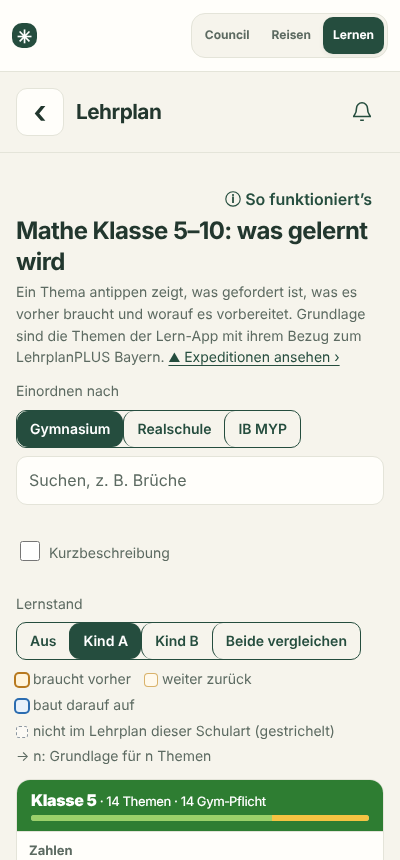
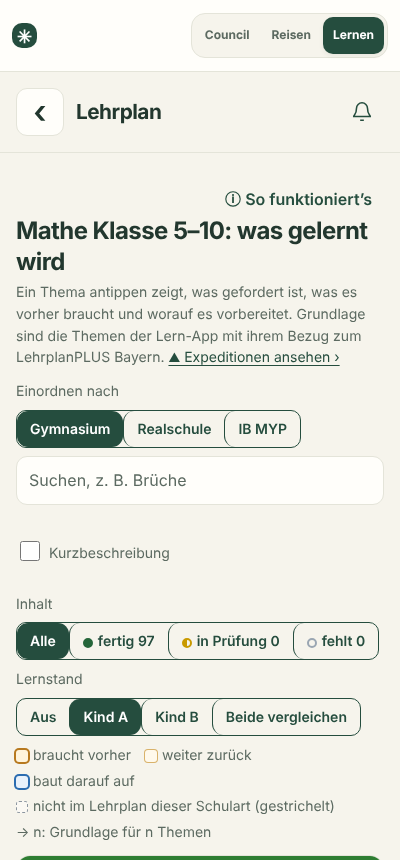
0.84.0 b: Matrix an LM-S 2 (Raster/Detail getrennt, Tripel, gebiet_id, etappen_anzahl), Filter Inhalt (was fehlt noch?), Info-Texte zum Lehrplan
Claude-Session: https://claude.ai/code/session_01RWRKSAaEXiAwwpv8KARTkF

Changed region(s): [[0.03, 0.6953, 0.96, 1.0]]

diff --git a/lernen.js b/lernen.js
@@ -3819,7 +3819,7 @@ function lernEtappeStandText(x) {
 const LERN_INFO_FRAGEN = [
   ['Worauf baut die App auf?', [
     'Die App deckt Mathematik für drei Schularten ab: Gymnasium Bayern (LehrplanPLUS, Klassen 5–10), Realschule Bayern (LehrplanPLUS, Klassen 5–10) und das IB Middle Years Programme (MYP-Jahr 1–5; entspricht etwa Klasse 6–10, also MYP-Jahr = Klasse − 5; unter Klasse 6: noch kein MYP-Jahr).',
-    'Grundlage ist eine Liste aller Mathe-Flüge (über 90). Für jeden Flug ist hinterlegt, in welcher Klasse er in welcher Schulart dran ist, z. B. „Ganze Zahlen: Gym 5 · RS 5 · IB 2“. Die Lehrplan-Übersicht zeigt alle Flüge.',
+    'Grundlage ist eine Liste aller Mathe-Flüge (über 90). Für jeden Flug ist hinterlegt, in welcher Klasse er in welcher Schulart dran ist, z. B. „Ganze Zahlen: Gym 5 · RS 5 · IB 2“. Der Lehrplan (Nachschlagen auf der Startseite) zeigt alle Flüge auf einer Seite: Klasse 5 bis 10 und alle Themengebiete.',
     'Für jede Schulart ist die Reihenfolge des Lehrplans und der Lernbereich hinterlegt (Gymnasium und Realschule nach LehrplanPLUS Bayern, IB nach dem MYP-Rahmenplan). Beim IB sind manche Zuordnungen als „Annahme“ gekennzeichnet, weil der Rahmenplan dort nicht genau festlegt, in welchem Jahr ein Flug dran ist. Den Lehrplan-Bezug eines Flugs sieht man, wenn man ihn im Lehrplan aufklappt.',
     'Ein Kind lernt jeden Flug nur einmal; er zählt für alle Schularten.']],
   ['Wie ist die Lernreise aufgebaut?', [
@@ -3838,7 +3838,7 @@ const LERN_INFO_FRAGEN = [
     ['Abschluss einer Etappe:', ' Nach der Landung (und der Knobel-Bordkarte) zeigt die App eine von drei Fassungen – jede mit eigenem Bild und eigener Farbe: Direktflug (alle Bordkarten im ersten Versuch richtig, ohne Tipp, genau so viele wie nötig), Saubere Landung (höchstens 2 endgültige Fehler, Stufe nie leichter geworden, höchstens 4 Bordkarten mehr als nötig; nach „wieder offen“ heißt sie „Wieder gelandet“) oder Sturmflug gemeistert (alles darüber; ohne Fehlerzahl, die Knobel-Bordkarte kommt dann nicht von selbst, nur als Textlink). Dazu ein Abzeichen – ⚡ Direkt, ✓ Sauber oder ⚡ Ausdauer –, das im Reisepass gezählt wird, der Satz „Du kannst jetzt …“ und genau ein Knopf zum nächsten Schritt (nächste Etappe, Flug-Test oder Abflugtafel); zurück in die Übungen derselben Etappe führt von dort kein Weg. Nach dem bestandenen Flug-Test: „Flug geschafft“ mit den Sternen des Flugs und der Liste „Das kannst du jetzt“, danach eine Bordkarte zum nächsten Flug im Plan („Boarding“ öffnet seine erste Erklärung). Mit dem letzten Flug eines Orts kommt dazwischen der Reisepass-Stempel. Landungen vor dieser Version haben kein Abzeichen.'],
     ['Wieder offen:', ' Zwei Fehler in einer fälligen Wiederholung öffnen eine gelandete Etappe wieder – überall: auf der Abflugtafel, in der Etappe, bei den Eltern und für den Flug-Test. Eigene Lösungen und Arten bleiben; es fehlen nur 3 eigene Lösungen in Folge. Ein früher bestandener Test bleibt getrennt als Beleg stehen. Fehler in Mischkarten oder Expeditionen öffnen nie, sie machen die Etappe nur am nächsten Lerntag fällig.'],
     ['Etappe sicher:', ' gelandet, die Wiederholung nach 14 Lerntagen bestanden und – beides nach der letzten Landung – einmal in einer Mischkarte richtig erkannt und im Nachtest des Flugs die Bordkarte dieser Etappe richtig. Ist nur der Nachtest des Flugs bestanden, steht bei den Eltern „Flug-Nachtest bestanden“.'],
-    ['Expeditionen:', ' größere Bordkarten aus 3–5 Teilen (a, b, c …), die Stoff aus mehreren Etappen verbinden – wie in einer Schulaufgabe mit Teil a, b, c. Das Kind bekommt eine Expedition auf der Abflugtafel angeboten, sobald alle ihre Etappen bei ihm gelandet sind; freiwillig, sie zählt nicht für „gelandet“. Jeder Teil hat zwei Versuche, danach steht die Lösung da und es geht mit dem nächsten Teil weiter (jeder Teil nennt seine Zahlen selbst). Richtig im ersten Versuch ist ein Beleg für die Etappe; falsch macht sie am nächsten Lerntag zur Wiederholung fällig – ohne Abzüge. Eine begonnene Expedition kann das Kind auch dann zu Ende führen, wenn eine ihrer Etappen inzwischen wieder offen ist. Gebucht wird auf die Version der Etappe, die beim Kind gelandet ist. Geschafft: Expeditions-Stempel und 50 Sterne. Alle Expeditionen mit Lösungen: Lehrplan-Übersicht → „Expeditionen ansehen“.'],
+    ['Expeditionen:', ' größere Bordkarten aus 3–5 Teilen (a, b, c …), die Stoff aus mehreren Etappen verbinden – wie in einer Schulaufgabe mit Teil a, b, c. Das Kind bekommt eine Expedition auf der Abflugtafel angeboten, sobald alle ihre Etappen bei ihm gelandet sind; freiwillig, sie zählt nicht für „gelandet“. Jeder Teil hat zwei Versuche, danach steht die Lösung da und es geht mit dem nächsten Teil weiter (jeder Teil nennt seine Zahlen selbst). Richtig im ersten Versuch ist ein Beleg für die Etappe; falsch macht sie am nächsten Lerntag zur Wiederholung fällig – ohne Abzüge. Eine begonnene Expedition kann das Kind auch dann zu Ende führen, wenn eine ihrer Etappen inzwischen wieder offen ist. Gebucht wird auf die Version der Etappe, die beim Kind gelandet ist. Geschafft: Expeditions-Stempel und 50 Sterne. Alle Expeditionen mit Lösungen: Lehrplan → „Expeditionen ansehen“.'],
     ['Mischkarten:', ' Sind im Flug mindestens 3 Etappen gelandet, ist beim Üben jede 4. Bordkarte (bis Klasse 6 jede 6.) eine aus einer anderen Etappe, die schon gelandet ist – meist aus demselben Flug oder Kontinent, manchmal aus einem älteren Flug. Sie ist gekennzeichnet („Aus deiner Reise – erkennst du, was gefragt ist?“), nach der Lösung steht, aus welcher Etappe sie kam. Das Kind soll selbst erkennen, welches Verfahren passt. Sie zählt nicht für die gerade geübte Etappe; richtig ist ein Beleg für „sicher“, falsch macht die Herkunfts-Etappe am nächsten Lerntag zur Wiederholung fällig – ohne Abzüge. Der Server prüft jede Mischkarte (Etappe gelandet, Stufe 2–3, nicht die gerade geübte); sonst zählt sie wie eine normale Bordkarte.'],
     ['Wiederholung:', ' Ist eine Etappe gelandet, kommt sie nach 1, 3, 7, 14 und 30 Lerntagen wieder, jeweils mit einer Bordkarte. Ein Lerntag ist ein Tag, an dem das Kind Mathe übt; Reisetage ohne Mathe zählen nicht. Vor einem Flug kommen höchstens 6 Wiederholungen, weitere werden nur angeboten. Ein Fehler: Die Etappe kommt am nächsten Lerntag wieder. Zwei Fehler hintereinander: Das Kind übt sie noch einmal – eigene Lösungen bleiben, es braucht wieder 3 richtige in Folge.'],
     ['Flug-Test:', ' Ist die letzte Pflicht-Etappe gelandet, führt der Landebildschirm nur noch zum Test („Weiter: Flug-Test“): eine Bordkarte je Etappe, ohne Tipps. Im Ergebnis ist jede Antwort deutlich als RICHTIG oder FALSCH markiert. Bei Fehlern zwei Wege: „Erst üben: ‹Etappe›“ oder „Gleich verbessern“. Alles richtig verbessert → Flug geschafft.'],
@@ -3847,7 +3847,7 @@ const LERN_INFO_FRAGEN = [
     'Keine Zeitvorgaben, keine Uhr, keine Ranglisten.']],
   ['Wie entstehen die Inhalte, und wer prüft sie?', [
     'Erklärungen und Bordkarten erstellt eine KI (Claude) nach festen Regeln: Bezug zum Lehrplan, Alltagseinstieg, einfache Sprache, jede Lösung vom Programm berechnet und geprüft.',
-    'Ein neuer Flug ist zuerst „in Prüfung“: Nur das Testkind sieht ihn. Nach der Freigabe ist er „fertig“ und für alle Kinder da. Die Lehrplan-Übersicht (Nachschlagen auf der Startseite) zeigt je Schulart und Klasse alle Flüge in der Reihenfolge des Lehrplans, gegliedert nach Lernbereich (z. B. „M8 2 Lineare Funktionen“): andere Schularten, Inhalt (● fertig, ◐ in Prüfung, ○ fehlt) und die Stufe je Kind (◉ ↻ ▶ ○ +). Eine Zeile antippen öffnet „Inhalte ansehen“.',
+    'Ein neuer Flug ist zuerst „in Prüfung“: Nur das Testkind sieht ihn. Nach der Freigabe ist er „fertig“ und für alle Kinder da. Der Lehrplan (Nachschlagen auf der Startseite) zeigt alle Flüge als Übersicht: Zeilen Klasse 5–10, Spalten die Themengebiete, eingeordnet nach Gymnasium, Realschule oder IB, in der Reihenfolge des Lehrplans. Der Filter „Inhalt“ zeigt, was fertig ist (●), was in Prüfung ist (◐) und was noch fehlt (○). Ein Thema antippen: was gefordert ist, was es vorher braucht, worauf es aufbaut, Lernbereich und „Inhalte ansehen“. Mit „Lernstand“ steht bei jedem Thema die Stufe eines Kindes (◉ ↻ ▶ ○ +) – ist ein Kind gewählt, lässt sich der Plan dort direkt ändern.',
     'Jeder Inhalt ist mit allen Lösungen einsehbar („Inhalte ansehen“). In einem fertigen Flug sind Bordkarten, die ersetzt wurden oder überzählig sind, „aussortiert“: Sie werden nie ausgegeben, zählen nicht mit und stehen zugeklappt am Ende der Etappe.']],
   ['Was kann ich selbst ändern?', [
     ['Plan je Kind', ' (Reiter „Plan“): oben „Gymnasium Kl. 8 · 3 ▶ · 9 ○ · 6 ↻ · 14 ◉“. Jeder Flug hat eine von vier Stufen, überall mit denselben Zeichen: ◉ Kann er komplett (keine Übung, keine Wiederholung), ↻ In Wiederholung („Wdh 2 von 5 · nächste in 3 Lerntagen“), ▶ Gerade dran, ○ Kommt noch; dazu + Nicht im Plan. Links „Unser Lehrplan“ nach Stufen: ▶ und ○ in der Reihenfolge der Lernreise (am Griff ⠿ ziehen oder ↑ ↓), darunter ↻ und zugeklappt ◉ mit Datum. Einen Ort antippen zeigt seine Flüge mit vier Knöpfen: „Lernen“, „Kann er – aber wiederholen“ (keine Übung, nur die Wiederholungen; zwei Fehler hintereinander → wieder offen), „Kann er komplett“ und „Aus dem Plan nehmen“; bei ◉ zusätzlich „Wieder in die Wiederholung“. Für so gesetzte Flüge gibt es keinen Flug-Test und keine Nachtests. Ist die Wiederholung nach 14 Lerntagen bestanden (und eine Mischkarte richtig, falls eine kam), steht der Flug auf ◉. „Wieder in die Wiederholung“ holt einen ◉-Flug zurück; die Wiederholungen beginnen dann wieder nach 1 Lerntag. „Auswählen“: je Ort ein Häkchen (alle seine Flüge), „▸ einzeln“ für einzelne Flüge, je Abschnitt „alle auswählen“; oben dann die Knöpfe für alle ausgewählten auf einmal (z. B. 6 Flüge aus Klasse 7 auf „wiederholen“). Rechts der Lehrplan „Nach Themengebiet“ oder „Nach Klasse“: eine Zeile je Flug in der Reihenfolge des Lehrplans, mit Stufe und denselben Knöpfen; „+ In den Plan“ nimmt den Ort nur mit diesem Flug auf. Ein Flug einer höheren Klasse trägt den Hinweis „Gym 6 – höhere Klasse“. Jede Änderung wird sofort gespeichert; „↶ Rückgängig“ oben holt den Stand davor zurück. Hat jemand anderes den Plan inzwischen geändert, meldet die App das und überschreibt nichts – dann neu laden.'],
@@ -3855,7 +3855,7 @@ const LERN_INFO_FRAGEN = [
     ['⚙ Einstellen', ' (in der Zeile des Kindes auf der Startseite und oben auf seiner Seite): Hauptschulart und Klasse („bestimmt seine Klasse in Lernreise und Plan“), Stand messen gegen … (Stufe je Schulart, nur für „Wo steht es?“), Notizen und Verlauf, Neuer Plan aus Lehrplan-Vorlage (mit Rückfrage und „↶ Rückgängig“). Alles speichert sofort.'],
     'Inhalte werden nicht direkt geändert, sondern beauftragt (nächste Frage). Belohnungen und Zugänge verwalten nur Eltern.']],
   ['Wie beauftrage ich eine Änderung?', [
-    'An der betroffenen Stelle „✎ Ändern lassen“ tippen – derselbe Knopf an Erklärung, Etappe, Bordkarte, Flug und Flugplan; der Auftrag weiß dann, worum es geht. An einzelnen Bordkarten steht er in der Lernreise eines Kindes (am einfachsten beim Testkind). Für Flüge ohne Inhalt steht er in der Lehrplan-Übersicht, mit „Neuer Flug“ vorbelegt. Allgemeine Wünsche: „Meine Aufträge“ → „Neuer Auftrag“.',
+    'An der betroffenen Stelle „✎ Ändern lassen“ tippen – derselbe Knopf an Erklärung, Etappe, Bordkarte, Flug und Flugplan; der Auftrag weiß dann, worum es geht. An einzelnen Bordkarten steht er in der Lernreise eines Kindes (am einfachsten beim Testkind). Für Flüge ohne Inhalt steht er im Lehrplan, wenn man das Thema antippt, mit „Neuer Flug“ vorbelegt. Allgemeine Wünsche: „Meine Aufträge“ → „Neuer Auftrag“.',
     'Art wählen (Erklärung, Bordkarten, Fehler, Neuer Flug, Sonstiges), bei Bedarf eine Vorlage antippen (z. B. „Schwieriger“, „Lösung falsch“) und in einem Satz sagen, was anders sein soll.',
     'Die Entwicklung (Eltern mit KI) bearbeitet den Auftrag. Status: offen → in Arbeit → erledigt oder nicht umgesetzt, jeweils mit Antwort – alles unter „Meine Aufträge“.',
     'Neue Antworten stehen auf der Startseite unter „Neue Antworten auf eure Aufträge“.',
@@ -3888,7 +3888,7 @@ async function viewInfo(arg) {
     el('div', { class: 'lern-info-schritte' },
       schritt(1, 'Flugplan prüfen', 'Reiter „Plan“ auf der Seite des Kindes – das ist dein Arbeitsplatz. Links „Unser Lehrplan“ nach Stufen (▶ Gerade dran · ○ Kommt noch · ↻ In Wiederholung · ◉ Kann er komplett); Reihenfolge mit ⠿ ziehen oder ↑ ↓. Einen Ort antippen: je Flug die Knöpfe „Lernen“, „Kann er – aber wiederholen“, „Kann er komplett“, „Aus dem Plan nehmen“. Rechts (auf dem Handy darunter) der Lehrplan: „Nach Themengebiet“ (alle Flüge eines Themengebiets von leicht nach schwer, auch über der Klasse des Kindes) oder „Nach Klasse“ (die Flüge einer Klasse in der Reihenfolge des Lehrplans, gegliedert nach Lernbereich). „+“ oder Ziehen plant ein. Viele auf einmal: „Auswählen“. Jede Änderung wird sofort gespeichert.', jeKind('plan', 'Plan')),
       schritt(2, 'Lernstand lesen', 'Reiter „Stand“ auf der Seite des Kindes: die Lehrplan-Landkarte des Kindes (Kontinente × Klassen) in seiner Schulart, mit „Einstieg prüfen“ (Orientierung, keine Einstufung durch eine Schule). Reiter „Was wackelt“: je Etappe, was sitzt und was wackelt, mit den echten falschen Antworten. Alle Kinder nebeneinander: die Tabelle auf der Startseite.', jeKind('stand', 'Stand'), jeKind('wackelt', 'Was wackelt')),
-      schritt(3, 'Inhalte ansehen', 'In der Lehrplan-Übersicht unter „Inhalte ansehen“: jede Etappe mit ihrer Erklärung und alle Bordkarten mit Lösung.', el('a', { href: '#/lehrplan' }, 'Lehrplan-Übersicht ›')),
+      schritt(3, 'Inhalte ansehen', 'Im Lehrplan ein Thema antippen, dann „Inhalte ansehen“: jede Etappe mit ihrer Erklärung und alle Bordkarten mit Lösung.', el('a', { href: '#/lehrplan' }, 'Lehrplan ›')),
       schritt(4, 'Ändern lassen', 'Fehlt etwas oder stimmt etwas nicht? Mit „✎ Ändern lassen“ direkt an der Stelle beauftragen; Status und Antwort stehen unter „Meine Aufträge“.', el('a', { href: '#/lernauftraege' }, 'Meine Aufträge ›'))),
     el('h3', {}, 'Fragen'),
     ...LERN_INFO_FRAGEN.map(([frage, teile], i) => el('details', { class: 'card lern-info-frage' },
@@ -3964,18 +3964,24 @@ const LERN_MX_SA = { gym_by: ['Gymnasium', 'Gym'], rs_by: ['Realschule', 'RS'], 
 let lernMx = null; // Zustand über Seitenwechsel: { sa, kind, sel, q }
 let lernPlanZiel = null; // „Im Plan öffnen ›“: { kind, thema } – viewPlan klappt das Thema auf
 const lernMxSpeicher = (k, v) => { try { if (v === undefined) return localStorage.getItem(k); localStorage.setItem(k, v); } catch { /* ohne Speicher */ } return null; };
-// Laden: LM-S (schule_lehrplan_matrix: themen je Thema einmal, verbindungen, gebiete, kinder, lernstand[kind][thema]) und dazu die Lehrplan-Übersicht
-// (Inhaltsstand ● ◐ ○ und Aufträge je Flug, die die Matrix-Daten nicht haben). Kennt der Server LM-S noch nicht, trägt die Übersicht allein (ohne Verbindungen).
+// Laden: LM-S 2 – Raster über schule_lehrplan_matrix (themen knapp: thema_id, titel, gebiet_id, block_id, einheit_id | ohne_flug, etappen_anzahl, jahrgang …;
+// verbindungen als Tripel [thema_id, braucht_id, "h"|"e"]; gebiete[] mit Titel; lernstand[kind][thema]) und dazu die Lehrplan-Übersicht (Ort, Kurzbeschreibung,
+// Inhaltsstand ● ◐ ○ und Aufträge je Flug, die das Raster nicht hat). Das Detail (lernMxThema) kommt beim Antippen über schule_lehrplan_thema.
+// Kennt der Server LM-S noch nicht, trägt die Übersicht allein (ohne Verbindungen).
 async function lernMxLaden(mitTest = false) {
   const [m, u] = await Promise.all([lernCall('schule_lehrplan_matrix', mitTest ? { mit_testkind: true } : {}).catch(() => null), lernCall('schule_lehrplan_uebersicht').catch((err) => ({ fehler: err }))]);
   if (!Array.isArray(m?.themen)) { if (u?.fehler) throw u.fehler; return u; }
   const ueb = new Map(); for (const t of (u?.themen || [])) if (!ueb.has(t.thema_id)) ueb.set(t.thema_id, t);
+  const geb = new Map((m.gebiete || []).map((g) => [g.gebiet_id, g.titel]));
   const kinder = m.kinder || [];
-  return { kinder, gebiete: m.gebiete, verbindungen: m.verbindungen || [], matrix: true,
-    themen: m.themen.map((t) => { const x = ueb.get(t.thema_id) || {};
-      return { ...t, beschreibung: t.was_gefordert ?? x.beschreibung, rueckmeldungen: x.rueckmeldungen || 0, stand: x.stand, geplant: x.geplant,
-        einheit: x.einheit !== undefined ? x.einheit : t.einheit_id ? { id: t.einheit_id, status: 'geprueft', karten: (t.etappen || []).length, aufgaben: 0, neu: 0 } : null,
-        stufe: Object.fromEntries(kinder.map((c) => [c.id, m.lernstand?.[c.id]?.[t.thema_id]]).filter(([, v]) => v)) }; }) };
+  const verbindungen = (m.verbindungen || []).map((v) => (Array.isArray(v) ? { thema_id: v[0], braucht_id: v[1], art: v[2] === 'e' || v[2] === 'empfohlen' ? 'empfohlen' : 'hart' } : v));
+  return { kinder, gebiete: m.gebiete, verbindungen, matrix: true,
+    themen: m.themen.map((t) => { const x = ueb.get(t.thema_id) || {}; const n = t.etappen_anzahl ?? (Array.isArray(t.etappen) ? t.etappen.length : 0);
+      return { ...t, gebiet: t.gebiet || geb.get(t.gebiet_id) || x.gebiet, ort: t.ort ?? x.ort, beschreibung: t.was_gefordert ?? x.beschreibung,
+        gliederung: t.etappen ? undefined : x.gliederung, rueckmeldungen: x.rueckmeldungen || 0, stand: x.stand, geplant: x.geplant,
+        einheit: x.einheit !== undefined ? x.einheit : t.einheit_id ? { id: t.einheit_id, status: 'geprueft', karten: n, aufgaben: 0, neu: 0 } : null,
+        // „Etappe x von y“: y = etappen_anzahl (LM-S 2 lässt etappen im Lernstand weg)
+        stufe: Object.fromEntries(kinder.map((c) => { const s = m.lernstand?.[c.id]?.[t.thema_id]; return [c.id, s ? { ...s, etappen: s.etappen ?? (n || undefined) } : s]; }).filter(([, v]) => v)) }; }) };
 }
 // Adapter: Felder von schule_lehrplan_matrix (LM-S) und – ohne LM-S – von schule_lehrplan_uebersicht (beschreibung, gliederung [Titel]) an einer Stelle.
 function lernMxDaten(d) {
@@ -4039,7 +4045,7 @@ async function viewLehrplan(arg) {
   if (!live()) return;
   let M = lernMxDaten(d);
   const kinder = d.kinder || [];
-  const zst = lernMx || (lernMx = { sa: kinder[0]?.schulart || 'gym_by', kind: null, sel: null, q: '' });
+  const zst = lernMx || (lernMx = { sa: kinder[0]?.schulart || 'gym_by', kind: null, sel: null, q: '', inhalt: '' });
   let kurz = lernMxSpeicher('mx-kurz') === '1', zeilen = lernMxSpeicher('mx-zeilen') !== '0';
   if (vorKind) { zst.kind = vorKind; zst.sel = null; const c = kinder.find((k) => k.id === vorKind); if (c?.schulart && LERN_MX_SA[c.schulart]) zst.sa = c.schulart; }
   if (zst.kind && zst.kind !== 'alle' && !kinder.some((k) => k.id === zst.kind) && !vorKind) zst.kind = null;
@@ -4111,6 +4117,7 @@ async function viewLehrplan(arg) {
   const kurzBox = el('input', { type: 'checkbox', checked: kurz ? true : null, onchange: (ev) => { kurz = ev.target.checked; lernMxSpeicher('mx-kurz', kurz ? '1' : '0'); zeichne(); } });
   const leiste = el('div', { class: 'mx-leiste' });
   const lernstandLeiste = el('div', { class: 'mx-leiste mx-lernstand-leiste' });
+  const inhaltLeiste = el('div', { class: 'mx-leiste mx-inhalt-leiste' });
   const ansicht = el('div', { class: 'mx-ansicht' });
   const detail = el('aside', { class: 'mx-detail', 'aria-live': 'polite', 'aria-label': 'Thema im Detail' });
   const waehleKind = (w) => {
@@ -4125,6 +4132,12 @@ async function viewLehrplan(arg) {
       schalter('Einordnen nach Schulart', Object.entries(LERN_MX_SA).map(([s, [n]]) => [s, n]), () => zst.sa, (w) => { zst.sa = w; }),
       suche, handy() ? null : schalter('Aufbau', [['z', 'Klassen als Zeilen'], ['s', 'Klassen als Spalten']], () => (zeilen ? 'z' : 's'), (w) => { zeilen = w === 'z'; lernMxSpeicher('mx-zeilen', zeilen ? '1' : '0'); }),
       el('label', { class: 'mx-kurz' }, kurzBox, ' Kurzbeschreibung'));
+    // „Was fehlt noch?“ (aus LB-1): Filter nach Inhaltsstand mit Zählern; nicht passende Themen werden blass
+    const zahl = (k) => M.themen.filter((x) => inhaltK(x) === k).length;
+    lernErsetze(inhaltLeiste, el('span', { class: 'mx-leiste-wort' }, 'Inhalt'),
+      el('div', { class: 'mx-schalter', role: 'group', 'aria-label': 'Inhalt' }, ...[['', 'Alle', null], ['fertig', 'fertig', '●'], ['pruefung', 'in Prüfung', '◐'], ['leer', 'fehlt', '○']].map(([w, text, z]) =>
+        el('button', { type: 'button', 'aria-pressed': String(zst.inhalt === w), 'aria-label': w ? `${text}: ${zahl(w)}` : 'Alle Themen', onclick: () => { zst.inhalt = w; zeichne(); } },
+          z ? el('i', { class: 'lp-dot lp-dot-' + w, 'aria-hidden': 'true' }) : null, z ? `${text} ${zahl(w)}` : text))));
     lernErsetze(lernstandLeiste, el('span', { class: 'mx-leiste-wort' }, 'Lernstand'),
       kinder.length ? el('div', { class: 'mx-schalter', role: 'group', 'aria-label': 'Lernstand' },
         el('button', { type: 'button', 'aria-pressed': String(!zst.kind), onclick: () => waehleKind(null) }, 'Aus'),
@@ -4135,7 +4148,8 @@ async function viewLehrplan(arg) {
   };
 
   // ---------- Matrix ----------
-  const treffer = (x) => { const q = zst.q.trim().toLowerCase(); return !q || `${x.titel} ${x.umfang} ${x.gebiet} ${x.merke.join(' ')} ${x.etappen.map((e) => e.titel).join(' ')}`.toLowerCase().includes(q); };
+  const inhaltK = (x) => (x.ohneFlug && !x.roh.einheit ? 'ohne' : lernInhaltZustand(x.roh).k);
+  const treffer = (x) => { if (zst.inhalt && inhaltK(x) !== zst.inhalt) return false; const q = zst.q.trim().toLowerCase(); return !q || `${x.titel} ${x.umfang} ${x.gebiet} ${x.merke.join(' ')} ${x.etappen.map((e) => e.titel).join(' ')}`.toLowerCase().includes(q); };
   const weg = (id) => { const s = new Set(); const st = [id]; while (st.length) { const v = st.pop(); (M.vor.get(v) || []).forEach((e) => { if (!s.has(e.id)) { s.add(e.id); st.push(e.id); } }); } return s; };
   let WEG = new Set();
   const rolle = (x) => { const sel = zst.sel; if (!sel || !M.by.has(sel)) return ''; if (x.id === sel) return ' mx-sel'; if ((M.vor.get(sel) || []).some((e) => e.id === x.id)) return ' mx-vor';
@@ -4217,23 +4231,27 @@ async function viewLehrplan(arg) {
   const kurzK = (id) => { const y = M.by.get(id); const k = lernMxKl(y, zst.sa); return k ? `Kl. ${k}` : `zusätzlich, ≈ Kl. ${lernMxZeile(y, zst.sa)}`; };
   const springe = (id) => { zst.sel = id; zeichne(); if (!handy() && innerWidth < 1100) detail.scrollIntoView({ block: 'start' }); };
   const link = (id) => el('button', { type: 'button', class: 'mx-link', onclick: () => springe(id) }, M.by.get(id).titel);
-  const verbListe = (l) => el('ul', { class: 'mx-dep' }, ...l.map((e) => el('li', {}, link(e.id), el('span', { class: 'mx-kk' }, ` · ${kurzK(e.id)}${e.art === 'empfohlen' ? ' · empfohlen' : ''}`),
-    e.bg ? el('br') : null, e.bg ? el('span', { class: 'mx-kk' }, e.bg) : null)));
+  const verbListe = (l, sel, rueck) => el('ul', { class: 'mx-dep' }, ...l.map((e) => { const bg = e.bg || begr.get(rueck ? `${e.id}-${sel}` : `${sel}-${e.id}`) || '';
+    return el('li', {}, link(e.id), el('span', { class: 'mx-kk' }, ` · ${kurzK(e.id)}${e.art === 'empfohlen' ? ' · empfohlen' : ''}`), bg ? el('br') : null, bg ? el('span', { class: 'mx-kk' }, bg) : null); }));
   const nachKl = (a, b) => (lernMxZeile(M.by.get(a.id ?? a), zst.sa) - lernMxZeile(M.by.get(b.id ?? b), zst.sa));
   const inhaltZeichen = { fertig: ['●', 'fertig'], pruefung: ['◐', 'in Prüfung'], leer: ['○', 'fehlt'] };
-  // LM-S 2 (angekündigt): Lehrplan-Wortlaut, merke und beispiel kommen dann erst im Detail – nachladen mit thema_id (Antwort: themen[0] oder thema)
-  const geholt = new Set();
+  // LM-S 2: das Detail (kurz, ort, was_gefordert, merke, etappen, beispiel, braucht/baut_darauf mit Begründung, lehrplan, eigenstaendig als Text)
+  // kommt beim Antippen über schule_lehrplan_thema { thema_id } – einmal je Thema; bis dahin zeigt das Detail, was das Raster hat.
+  const geholt = new Map(); // thema_id → 'laedt' | 'ok' | 'fehler'
+  const begr = new Map(); // „a-b“ → Begründung der Verbindung (aus dem Detail)
   const nachladen = (x) => {
-    if (!d.matrix || x.roh.lehrplan !== undefined || x.roh.merke !== undefined || geholt.has(x.id)) return null;
-    geholt.add(x.id);
-    lernCall('schule_lehrplan_matrix', { thema_id: x.id, ...(mitTest ? { mit_testkind: true } : {}) }).then((r) => {
-      const t = r?.thema || (r?.themen || []).find((y) => y.thema_id === x.id); if (!t || !live()) return;
+    if (!d.matrix || geholt.has(x.id)) return geholt.get(x.id) === 'laedt' ? el('p', { class: 'small muted mx-laedt' }, 'Einzelheiten werden geladen …') : null;
+    geholt.set(x.id, 'laedt');
+    lernCall('schule_lehrplan_thema', { thema_id: x.id }).then((t) => {
+      if (!t || !live()) return;
       const i = d.themen.findIndex((y) => y.thema_id === x.id); if (i < 0) return;
-      d.themen[i] = { ...d.themen[i], ...Object.fromEntries(['lehrplan', 'merke', 'beispiel', 'lernbereich', 'etappen', 'was_gefordert'].filter((k) => t[k] !== undefined).map((k) => [k, t[k]])) };
-      if (t.was_gefordert) d.themen[i].beschreibung = t.was_gefordert;
-      M = lernMxDaten(d); if (zst.sel === x.id) zeichneDetail();
-    }).catch(() => { /* Detail ohne Wortlaut */ });
-    return el('p', { class: 'small muted mx-laedt' }, 'Lehrplan-Wortlaut wird geladen …');
+      const neu = Object.fromEntries(['kurz', 'ort', 'merke', 'etappen', 'beispiel', 'lehrplan', 'eigenstaendig', 'lernbereich'].filter((k) => t[k] !== undefined).map((k) => [k, t[k]]));
+      if (t.was_gefordert) neu.beschreibung = t.was_gefordert;
+      for (const v of t.braucht || []) if (v.begruendung) begr.set(`${x.id}-${v.thema_id}`, v.begruendung);
+      for (const v of t.baut_darauf || []) if (v.begruendung) begr.set(`${v.thema_id}-${x.id}`, v.begruendung);
+      d.themen[i] = { ...d.themen[i], ...neu }; geholt.set(x.id, 'ok');
+    }).catch(() => { geholt.set(x.id, 'fehler'); }).finally(() => { if (!live()) return; M = lernMxDaten(d); if (zst.sel === x.id) zeichneDetail(); });
+    return el('p', { class: 'small muted mx-laedt' }, 'Einzelheiten werden geladen …');
   };
   function zeichneDetail() {
     const x = zst.sel && M.by.get(zst.sel);
@@ -4260,8 +4278,8 @@ async function viewLehrplan(arg) {
       t.einheit ? null : lernAendern({ block_id: t.block_id }, { bezug: 'flug', wo: `Flug „${x.titel}“`, art: 'neu', text: `Bitte Inhalte bauen: „${x.titel}“ (${t.ort || x.gebiet}, ${lernJahrgangText(x.jg)}).` }),
       // LM-4: Lernstand je Kind
       ks.length ? el('section', { class: 'mx-ls' }, el('h3', {}, 'Lernstand'), el('ul', { class: 'mx-ls-liste' }, ...ks.map((c) => { const s = lernMxStufe(x, c);
-        // LM-S: fehler_offen (eine Pflicht-Etappe steht nach einem Test auf „fehler“); ohne LM-S: eine Etappe ist wieder offen
-        const fehler = s.fehler_offen !== undefined ? s.fehler_offen === true || Number(s.fehler_offen) > 0 : Number(s.wieder_offen) > 0;
+        // LM-S: fehler_offen (eine Pflicht-Etappe steht nach einem Test auf „fehler“; fehlt = nein); ohne LM-S: eine Etappe ist wieder offen
+        const fehler = d.matrix ? s.fehler_offen === true || Number(s.fehler_offen) > 0 : Number(s.wieder_offen) > 0;
         return el('li', {}, el('div', { class: 'mx-ls-kopf' }, lernStufeZeichenEl(s), el('b', {}, c.name), lernStufeWortEl(s)),
           el('div', { class: 'mx-ls-links' }, el('a', { href: '#/kind/' + c.id + '-plan', onclick: () => { lernPlanZiel = { kind: c.id, thema: x.id }; } }, 'Im Plan öffnen ›'),
             fehler ? el('a', { href: `#/kind/${c.id}-wackelt` }, 'Fehler besprechen ›') : null)); })),
@@ -4272,9 +4290,9 @@ async function viewLehrplan(arg) {
       el('h3', {}, 'Was gefordert ist'), x.umfang ? el('p', {}, x.umfang) : el('p', { class: 'muted' }, 'Keine Beschreibung hinterlegt.'),
       el('h3', {}, 'Braucht vorher'),
       !M.hatVerb ? el('p', { class: 'mx-offen' }, 'Die Verbindungen zwischen den Themen liefert der Server noch nicht. Sobald sie da sind, stehen hier die Voraussetzungen.')
-        : vor.length ? verbListe(vor) : el('p', { class: 'mx-offen' }, x.eigen ? `Eigenständig: braucht keine Voraussetzung${typeof x.eigen === 'string' ? ' – ' + x.eigen : ' (so hinterlegt)'}.` : 'Keine Voraussetzung hinterlegt. Das heißt nicht sicher, dass das Thema eigenständig ist – die Verbindungen werden noch vervollständigt.'),
+        : vor.length ? verbListe(vor, x.id, false) : el('p', { class: 'mx-offen' }, x.eigen ? `Eigenständig: braucht keine Voraussetzung${typeof x.eigen === 'string' ? ' – ' + x.eigen : ' (so hinterlegt)'}.` : 'Keine Voraussetzung hinterlegt. Das heißt nicht sicher, dass das Thema eigenständig ist – die Verbindungen werden noch vervollständigt.'),
       wg.length ? [el('h3', {}, `Weiter zurück auf dem Weg (${wg.length})`), el('p', { class: 'mx-dep mx-weg-liste' }, ...wg.flatMap((id, j) => [j ? ' · ' : '', link(id), el('span', { class: 'mx-kk' }, ` (${kurzK(id)})`)]))] : null,
-      M.hatVerb ? [el('h3', {}, 'Darauf baut auf'), nach.length ? verbListe(nach) : el('p', { class: 'mx-offen' }, 'Kein späteres Thema hinterlegt, das darauf aufbaut.')] : null,
+      M.hatVerb ? [el('h3', {}, 'Darauf baut auf'), nach.length ? verbListe(nach, x.id, true) : el('p', { class: 'mx-offen' }, 'Kein späteres Thema hinterlegt, das darauf aufbaut.')] : null,
       x.merke.length ? [el('h3', {}, 'Das muss sitzen'), el('ul', {}, ...x.merke.map((m) => el('li', {}, m)))] : null,
       x.beispiel ? [el('h3', {}, 'Beispielaufgabe'), el('p', { class: 'mx-beisp' }, x.beispiel)] : null,
       x.etappen.length ? [el('h3', {}, `Schritte in der App (${x.etappen.length} Etappen)`), el('ol', {}, ...x.etappen.map((e) => el('li', {}, e.titel, e.pflicht === false ? el('span', { class: 'mx-kk' }, ' · freiwillig') : null)))] : null,
@@ -4294,7 +4312,7 @@ async function viewLehrplan(arg) {
     el('section', { class: 'mx-kopf' }, el('h2', {}, 'Mathe Klasse 5–10: was gelernt wird'),
       el('p', { class: 'small muted' }, 'Ein Thema antippen zeigt, was gefordert ist, was es vorher braucht und worauf es vorbereitet. Grundlage sind die Themen der Lern-App mit ihrem Bezug zum LehrplanPLUS Bayern. ',
         el('a', { href: '#/expeditionen' }, '⛰ Expeditionen ansehen ›'))),
-    leiste, lernstandLeiste,
+    leiste, inhaltLeiste, lernstandLeiste,
     el('div', { class: 'mx-legende small muted' }, el('span', {}, el('i', { class: 'mx-leg-vor' }), 'braucht vorher'), el('span', {}, el('i', { class: 'mx-leg-weg' }), 'weiter zurück'),
       el('span', {}, el('i', { class: 'mx-leg-nach' }), 'baut darauf auf'), el('span', {}, el('i', { class: 'mx-leg-zu' }), 'nicht im Lehrplan dieser Schulart (gestrichelt)'), el('span', {}, '→ n: Grundlage für n Themen')),
     haupt,

diff --git a/style.css b/style.css
@@ -4783,6 +4783,7 @@ html.lr-abschluss-offen, html.lr-abschluss-offen body { overflow: hidden; }
 .mx-schalter button[aria-pressed="true"], .mx-schalter button[aria-pressed="true"]:hover { background: var(--accent); color: #fff; }
 .mx-suche { min-width: 200px; flex: 0 1 260px; }
 .mx-kurz { display: inline-flex; gap: 6px; align-items: center; color: var(--muted); font-size: 14px; cursor: pointer; white-space: nowrap; }
+.mx-inhalt-leiste .lp-dot { margin-right: 5px; }
 .mx-legende { display: flex; flex-wrap: wrap; gap: 4px 14px; margin: 4px 0 12px; }
 .mx-legende i { display: inline-block; width: 12px; height: 12px; border-radius: 3px; vertical-align: -2px; margin-right: 5px; }
 .mx-leg-vor { background: #FFF4DC; box-shadow: 0 0 0 2px #B7791F; } .mx-leg-weg { background: #FFF9EC; box-shadow: 0 0 0 1px #D9B26A; }

diff --git a/inhalte/postfach/bau-motivation.md b/inhalte/postfach/bau-motivation.md
@@ -2,6 +2,34 @@
 
 Neueste oben.
 
+## 2026-11-21 – FERTIG: 0.84.0 b – Matrix an LM-S 2 angepasst, Filter „Inhalt“, Info-Texte (Version bleibt 0.84.0, Cache v154)
+
+Auf AUFTRAEGE.md „Rückläufer 21.11. morgens“, Teil D. Stand `lernen-app` d463182 übernommen. Nur App (`lernen.js`, `style.css`) und Tests. Nichts in der Datenbank, keine Kinderdaten, kein Merge nach `main`.
+Bilder neu: `docs/previews/la/lm-oben-400/820/1280.png` (mit Filterzeile), `lm-matrix-*.png`.
+
+**Datenformat LM-S 2** (Feldliste „FERTIG: LM-S 2“)
+- Raster aus `schule_lehrplan_matrix`: Gebiet-Titel über `gebiet_id` aus `gebiete[]` (Spaltenreihenfolge = `reihenfolge`); `verbindungen[]` als Tripel `[thema_id, braucht_id, "h"|"e"]` (Objekte gehen weiter); `etappen_anzahl` → „Etappe x von y“ (y = `etappen_anzahl`, x = `etappe_jetzt`) und „Inhalte ansehen (n Etappen)“; `ohne_flug` blass; `eigenstaendig: true`. Fehlendes `fehler_offen` = nein (kein „Fehler besprechen ›“).
+- Detail über die eigene Aktion **`schule_lehrplan_thema { thema_id }`** beim Antippen, einmal je Thema: `kurz, ort, was_gefordert, merke, etappen (pflicht → „· freiwillig“), beispiel, braucht/baut_darauf (Begründungen an den Verbindungen), lehrplan, eigenstaendig` (Text: „Eigenständig: braucht keine Voraussetzung – ‹Begründung›“). Bis die Antwort da ist: „Einzelheiten werden geladen …“; bei Fehler bleibt das Raster-Detail.
+- Weiter parallel `schule_lehrplan_uebersicht` für Ort, Kurzbeschreibung im Raster, Inhaltsstand (◐ in Prüfung) und Aufträge. Ohne LM-S trägt die Übersicht allein (wie bisher).
+
+**Filter „Inhalt“ (was fehlt noch?)** – eigene Zeile über dem Lernstand: „Alle · ● fertig n · ◐ in Prüfung n · ○ fehlt n“ (Zähler über alle Themen). Nicht passende Themen werden blass (wie bei der Suche, beides kombinierbar); Themen ohne Flug zählen nirgends mit. Im Detail weiter Inhaltsstand, „Inhalte ansehen“, Aufträge und „✎ Ändern lassen“.
+
+**Info-Seite – Vorschlag zum Prüfen (umgesetzt):**
+- „Wie entstehen die Inhalte …“, letzter Satz statt „Die Lehrplan-Übersicht … Eine Zeile antippen öffnet ‚Inhalte ansehen‘.“: „Der Lehrplan (Nachschlagen auf der Startseite) zeigt alle Flüge als Übersicht: Zeilen Klasse 5–10, Spalten die Themengebiete, eingeordnet nach Gymnasium, Realschule oder IB, in der Reihenfolge des Lehrplans. Der Filter „Inhalt“ zeigt, was fertig ist (●), was in Prüfung ist (◐) und was noch fehlt (○). Ein Thema antippen: was gefordert ist, was es vorher braucht, worauf es aufbaut, Lernbereich und „Inhalte ansehen“. Mit „Lernstand“ steht bei jedem Thema die Stufe eines Kindes (◉ ↻ ▶ ○ +) – ist ein Kind gewählt, lässt sich der Plan dort direkt ändern.“
+- Lehrplan-Grundlage: „… Die Lehrplan-Übersicht zeigt alle Flüge.“ → „… Der Lehrplan (Nachschlagen auf der Startseite) zeigt alle Flüge auf einer Seite: Klasse 5 bis 10 und alle Themengebiete.“
+- „Ändern lassen“: „Für Flüge ohne Inhalt steht er im Lehrplan, wenn man das Thema antippt, mit „Neuer Flug“ vorbelegt.“
+- Expeditionen: „Alle Expeditionen mit Lösungen: Lehrplan → „Expeditionen ansehen“.“
+- Erste Schritte, Schritt 3: „Im Lehrplan ein Thema antippen, dann „Inhalte ansehen“: …“, Link „Lehrplan ›“.
+- Die Gliederung nach Lernbereich fällt im Text weg (Lernbereich steht im Detail). Test „LB Teil 7“ prüft den neuen Satz und dass „Lehrplan-Übersicht“ nicht mehr vorkommt.
+
+**Gesehen/getestet**
+- lernen: 141 Tests; im Gesamtlauf 140 bestanden, „LB Teil 8: aufgeklappte Karte“ wackelt unter Last (einzeln zweimal bestanden, wie schon in 0.84.0). Neu/ersetzt: „LM-S 2“ (Raster mit Tripeln, gebiet_id, etappen_anzahl, Detail über schule_lehrplan_thema mit Begründungen, eigenständig, freiwillig, fehler_offen, ohne Flug, Testkind) und „LM: Filter Inhalt“ (Zähler, blass, mit Suche, 400/820 ohne gebrochene Wörter und Querrollen). Testdaten: echte Themenliste, Verbindungen aus der Vorlage, Lernstand erfunden.
+- Suche: die bekannten alten Fehler (PWA-Hülle, Startkarte, W80 ×4, Review301, Woanders gebucht, W88).
+
+**Nicht geprüft / Hinweise**
+- Gegen den echten LM-S-Server nicht getestet (LM-S 3 behebt erst den Abbruch der Migration). Die App fällt ohne LM-S auf die Übersicht zurück.
+- `schule_lehrplan_thema` rufe ich ohne `lernender_id` auf (Eltern/Lehrer-Sicht).
+
 ## 2026-11-21 – FERTIG: 0.84.0 – Lehrplan-Matrix LM-1 bis LM-5 (Eltern/Lehrer), Cache v154
 
 Stand `lernen-app` 168a744 übernommen (mit LM-S und Runde 30). Nur App (`lernen.js`, `style.css`), Version in sechs Dateien, Tests. Nichts in der Datenbank, keine Kinderdaten, keine Schlüssel, kein Merge nach `main`.
